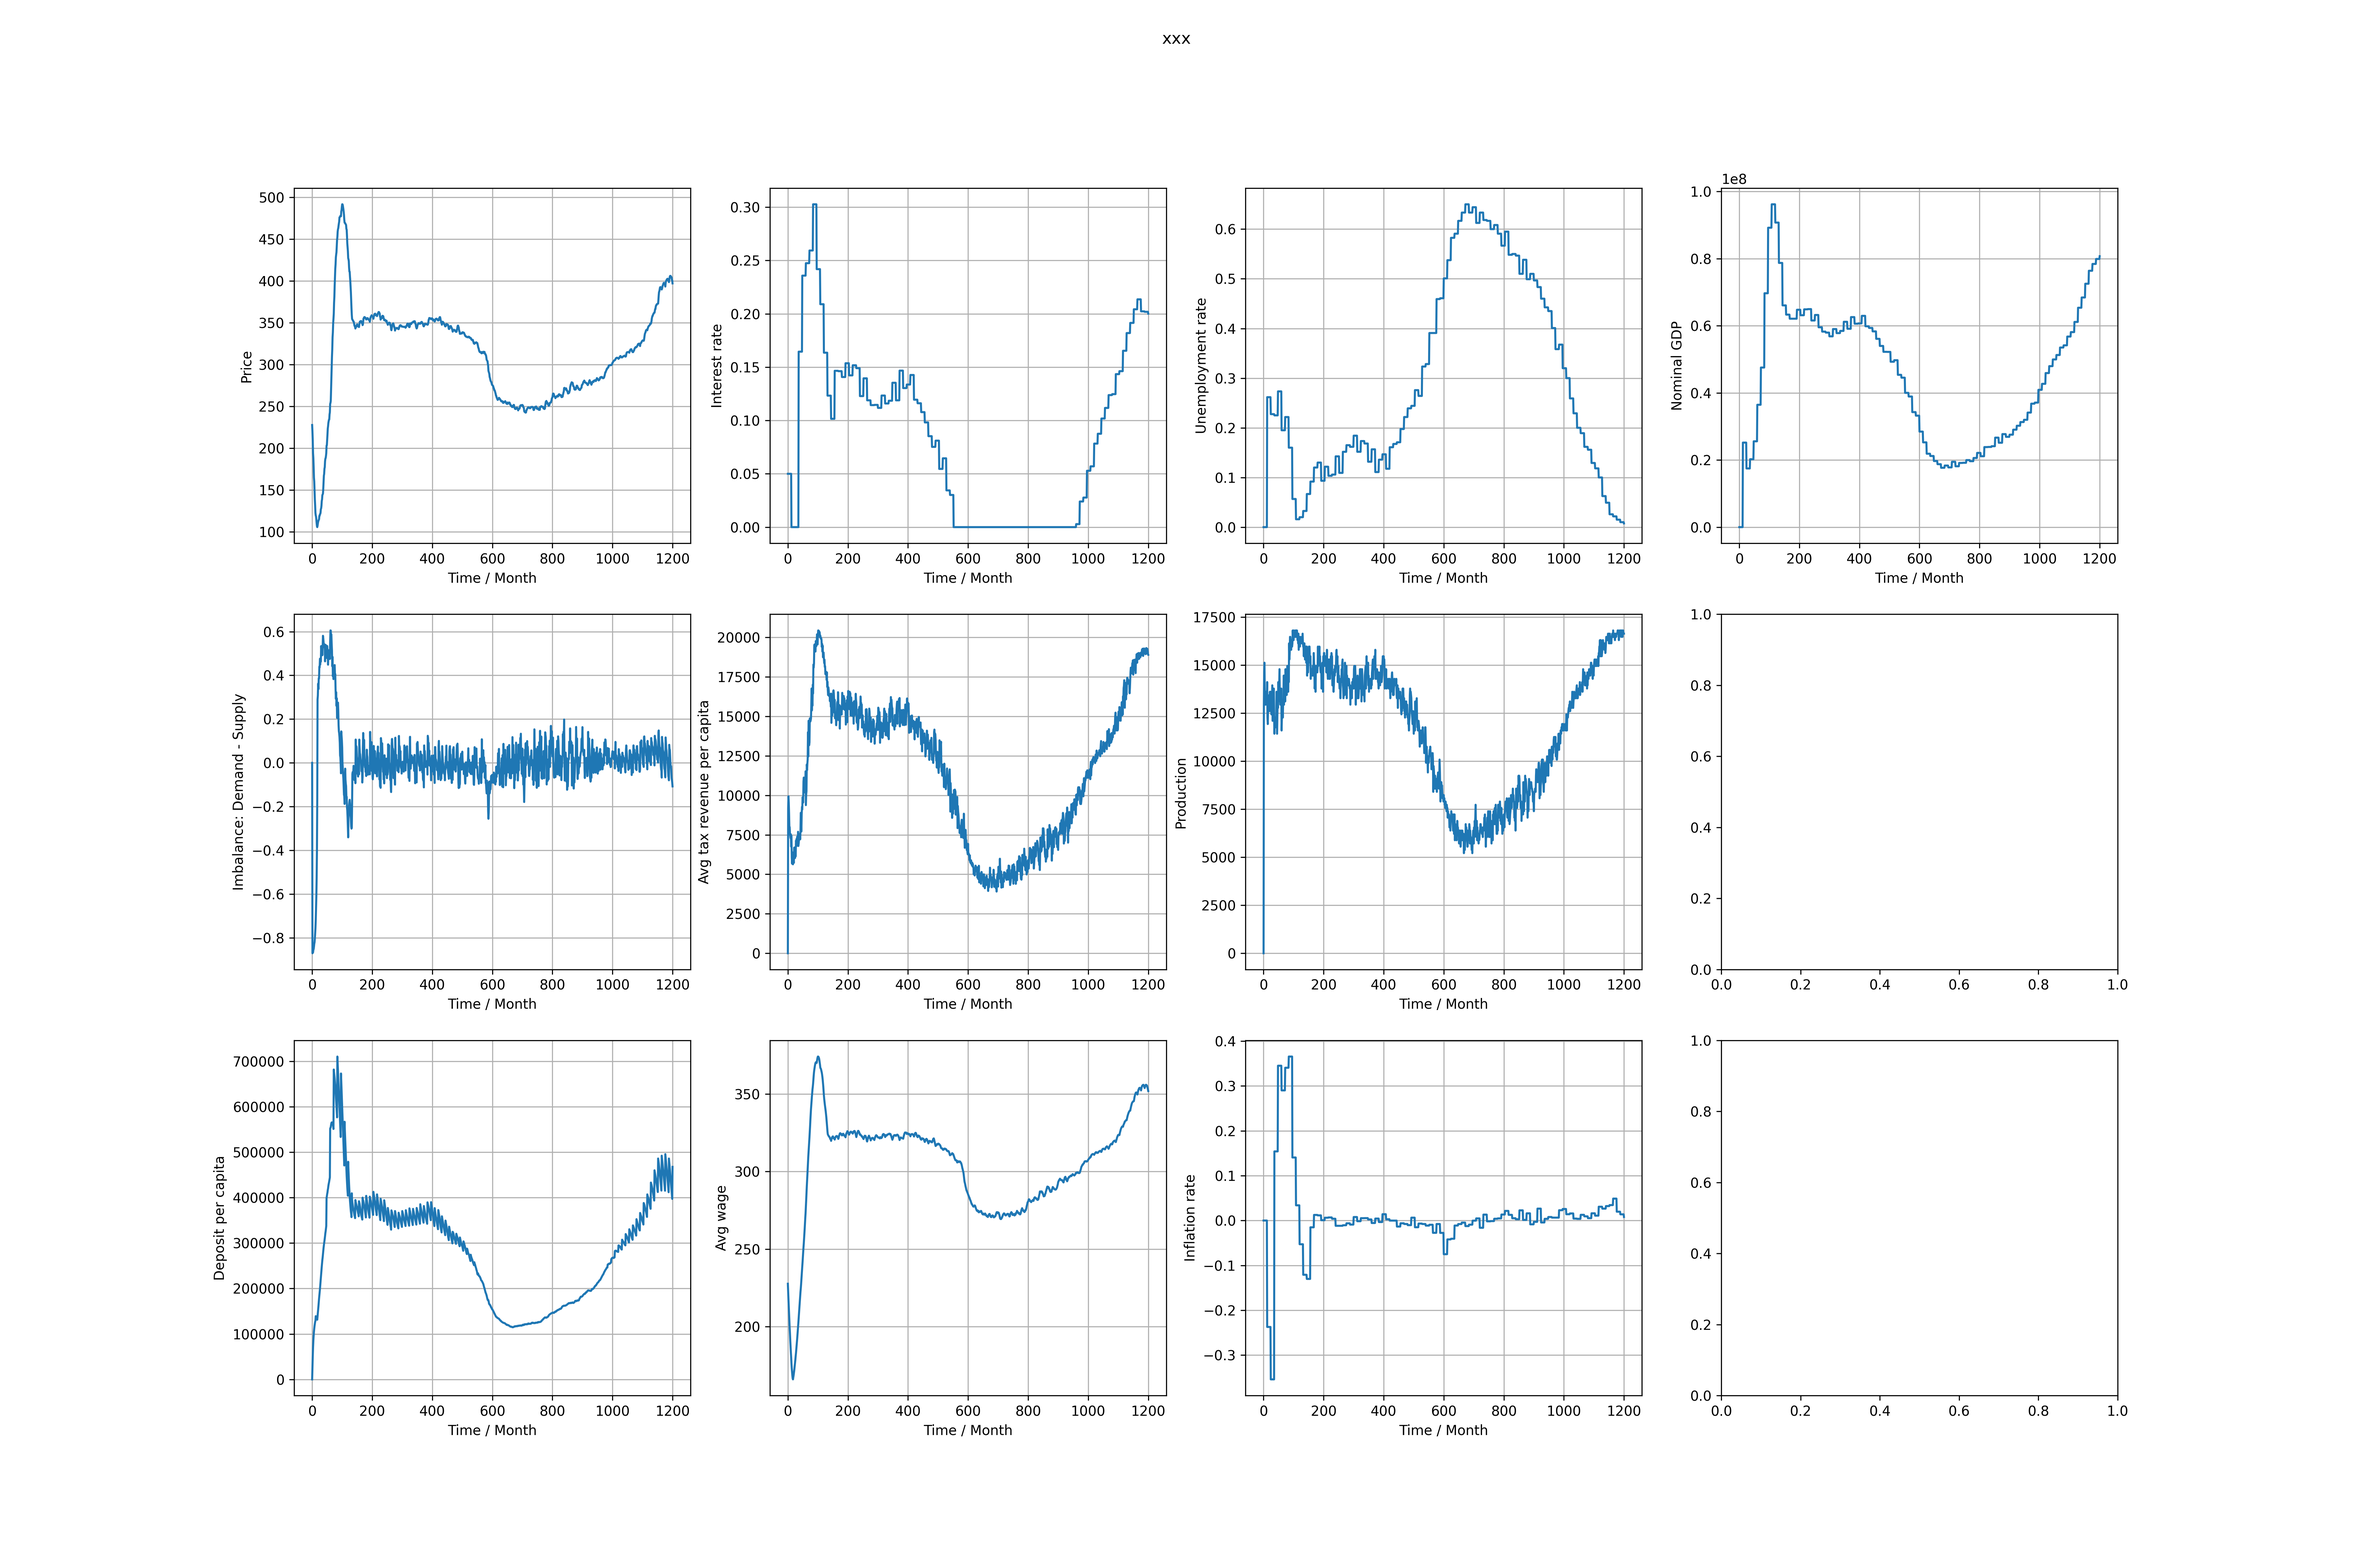
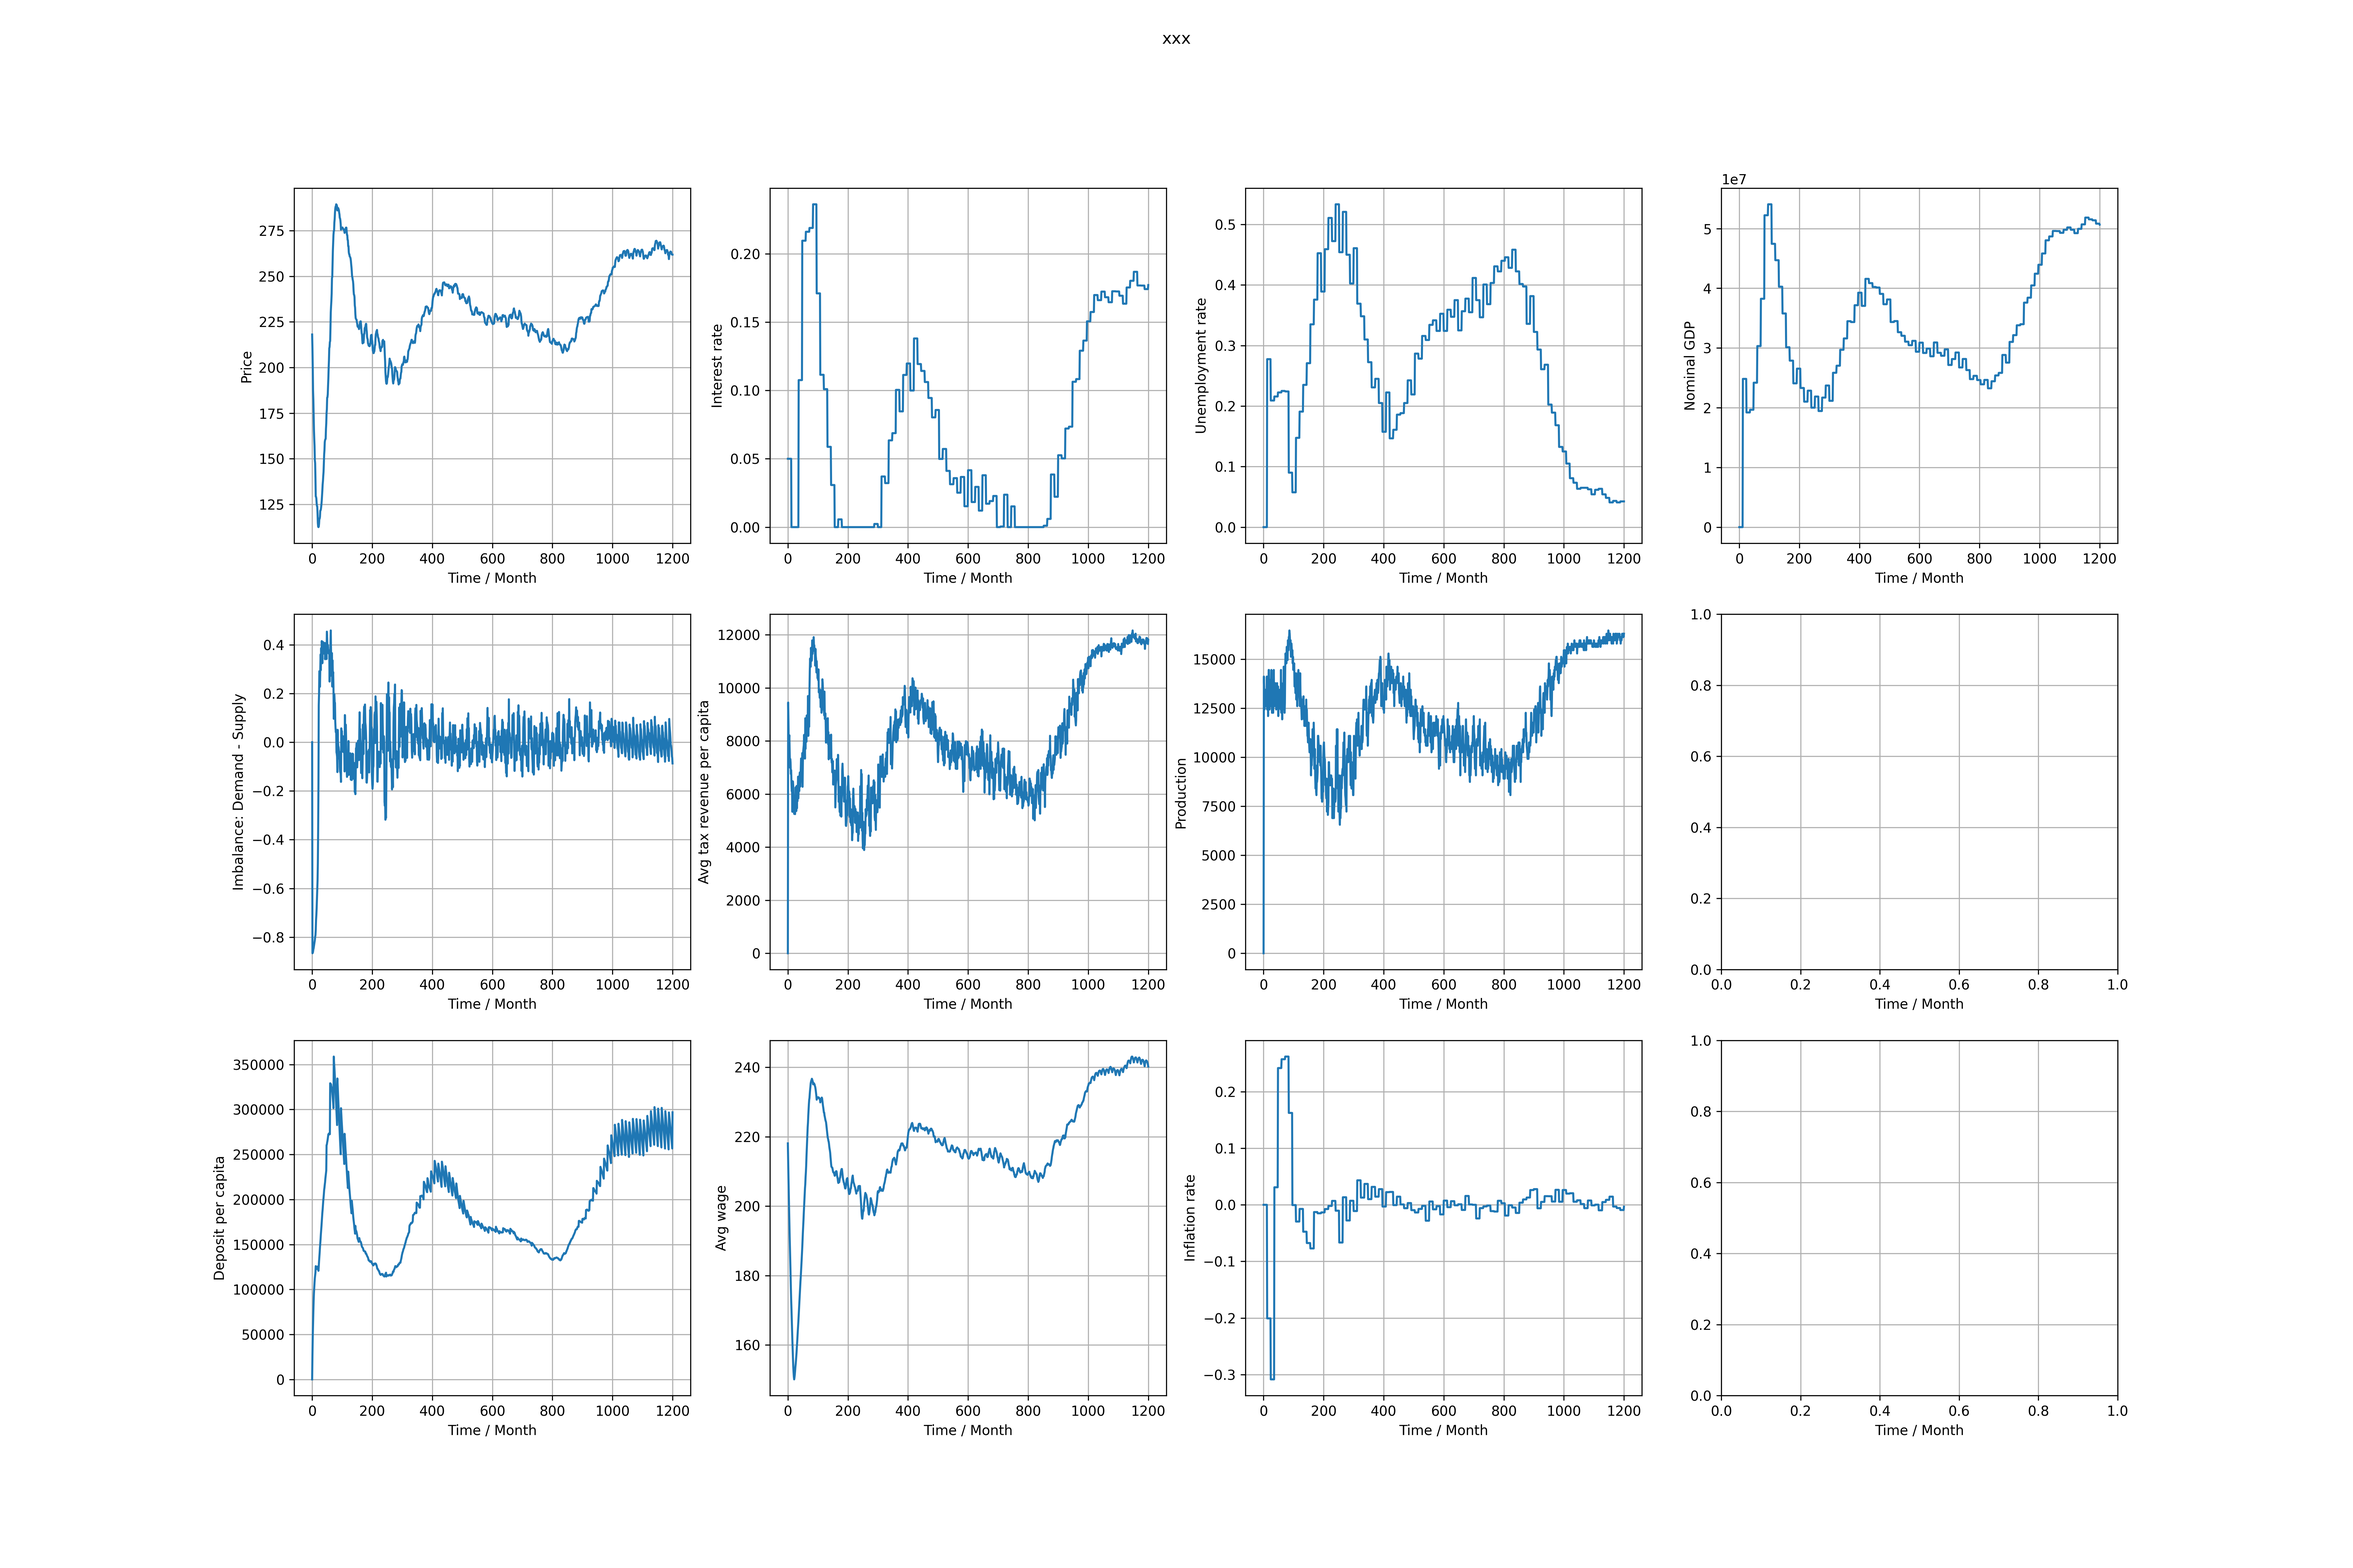
update plot_logs

diff --git a/main.py b/main.py
@@ -264,66 +264,14 @@ def simulation(config:Configuration):
     return log
 
 if __name__ == '__main__':
-    import matplotlib.pyplot as plt
+    from utils import plot_logs
     from config import Configuration
     
     config = Configuration()
     
     log = simulation(config)
-    # print(log[2])
-    price_history = [log[key]['price'] for key in log.keys()]
-    rate_history = [log[key]['rate'] for key in log.keys()]
-    imba_history = [log[key]['imbalance'] for key in log.keys()]
-    taxes_history = [log[key]['taxes']/config.num_agents for key in log.keys()]
+    plot_logs('log.png', log, config)
     
-    fig, axs = plt.subplots(3, 4, figsize=(24, 16))
-    fig.suptitle('xxx')
-    
-    axs[0, 0].plot(price_history)
-    axs[0, 0].set_xlabel('Time / Month'); axs[0, 0].set_ylabel('Price')
-    axs[0, 0].grid()
-    
-    axs[0, 1].plot(rate_history)
-    axs[0, 1].set_xlabel('Time / Month'); axs[0, 1].set_ylabel('Interest rate')
-    axs[0, 1].grid()
-    
-    axs[0, 2].plot([log[key]['unemployment_rate'] for key in log.keys()])
-    axs[0, 2].set_xlabel('Time / Month'); axs[0, 2].set_ylabel('Unemployment rate')
-    axs[0, 2].grid()
-    
-    axs[0, 3].plot([log[key]['GDP'] for key in log.keys()])
-    axs[0, 3].set_xlabel('Time / Month'); axs[0, 3].set_ylabel('Nominal GDP')
-    axs[0, 3].grid()
-    
-
-    axs[1, 0].plot(imba_history)
-    axs[1, 0].set_xlabel('Time / Month'); axs[1, 0].set_ylabel('Imbalance: Demand - Supply')
-    axs[1, 0].grid()
-    
-    axs[1, 1].plot(taxes_history)
-    axs[1, 1].set_xlabel('Time / Month'); axs[1, 1].set_ylabel('Avg tax revenue per capita')
-    axs[1, 1].grid()
-    
-    axs[1, 2].plot([log[key]['production'] for key in log.keys()])
-    axs[1, 2].set_xlabel('Time / Month'); axs[1, 2].set_ylabel('Production')
-    axs[1, 2].grid()
-    
-    axs[2, 0].plot([total_deposit(log[key]['deposit'])/config.num_agents for key in log.keys()])
-    axs[2, 0].set_xlabel('Time / Month'); axs[2, 0].set_ylabel('Deposit per capita')
-    axs[2, 0].grid()
-    
-    axs[2, 1].plot([log[key]['avg_wage'] for key in log.keys()])
-    axs[2, 1].set_xlabel('Time / Month'); axs[2, 1].set_ylabel('Avg wage')
-    axs[2, 1].grid()
-    
-    axs[2, 2].plot([log[key]['inflation_rate'] for key in log.keys()])
-    axs[2, 2].set_xlabel('Time / Month'); axs[2, 2].set_ylabel('Inflation rate')
-    axs[2, 2].grid()
-    
-    # plt.tight_layout()
-
-    plt.savefig('log.png', dpi=300)
-    # plt.show()
     
     
     

diff --git a/utils.py b/utils.py
@@ -1,5 +1,5 @@
 import numpy as np
-
+from config import Configuration
 
 def beta_dist(size=1):
     '''
@@ -64,6 +64,58 @@ def GDP(log:dict):
     '''
     assert len(log) >= 12
     return sum([log[key]['production'] * log[key]['price'] for key in list(log.keys())[-12:]])
+
+
+def plot_logs(img_name:str, log:dict, config:Configuration):
+    import matplotlib.pyplot as plt
+    
+    price_history = [log[key]['price'] for key in log.keys()]
+    rate_history = [log[key]['rate'] for key in log.keys()]
+    imba_history = [log[key]['imbalance'] for key in log.keys()]
+    taxes_history = [log[key]['taxes']/config.num_agents for key in log.keys()]
+    
+    fig, axs = plt.subplots(3, 4, figsize=(24, 16))
+    fig.suptitle('xxx')
+    for i in range(3):
+        for j in range(4):
+            axs[i, j].set_xlabel('Time / Month')
+            axs[i, j].grid()
+    
+    axs[0, 0].plot(price_history)
+    axs[0, 0].set_ylabel('Price')
+    
+    axs[0, 1].plot(rate_history)
+    axs[0, 1].set_ylabel('Interest rate')
+    
+    axs[0, 2].plot([log[key]['unemployment_rate'] for key in log.keys()])
+    axs[0, 2].set_ylabel('Unemployment rate')
+    
+    axs[0, 3].plot([log[key]['GDP'] for key in log.keys()])
+    axs[0, 3].set_ylabel('Nominal GDP')
+    
+
+    axs[1, 0].plot(imba_history)
+    axs[1, 0].set_ylabel('Imbalance: Demand - Supply')
+    
+    axs[1, 1].plot(taxes_history)
+    axs[1, 1].set_ylabel('Avg tax revenue per capita')
+    
+    axs[1, 2].plot([log[key]['production'] for key in log.keys()])
+    axs[1, 2].set_ylabel('Production')
+    
+    axs[2, 0].plot([total_deposit(log[key]['deposit'])/config.num_agents for key in log.keys()])
+    axs[2, 0].set_ylabel('Deposit per capita')
+    
+    axs[2, 1].plot([log[key]['avg_wage'] for key in log.keys()])
+    axs[2, 1].set_ylabel('Avg wage')
+    
+    axs[2, 2].plot([log[key]['inflation_rate'] for key in log.keys()])
+    axs[2, 2].set_ylabel('Inflation rate')
+    
+    plt.tight_layout()
+
+    plt.savefig(img_name, dpi=300)
+    # plt.show()
 
 if __name__ == '__main__':
     # taxes = taxation([4500, 21000, 57000, 115000, 180000, 300000, 700000])
